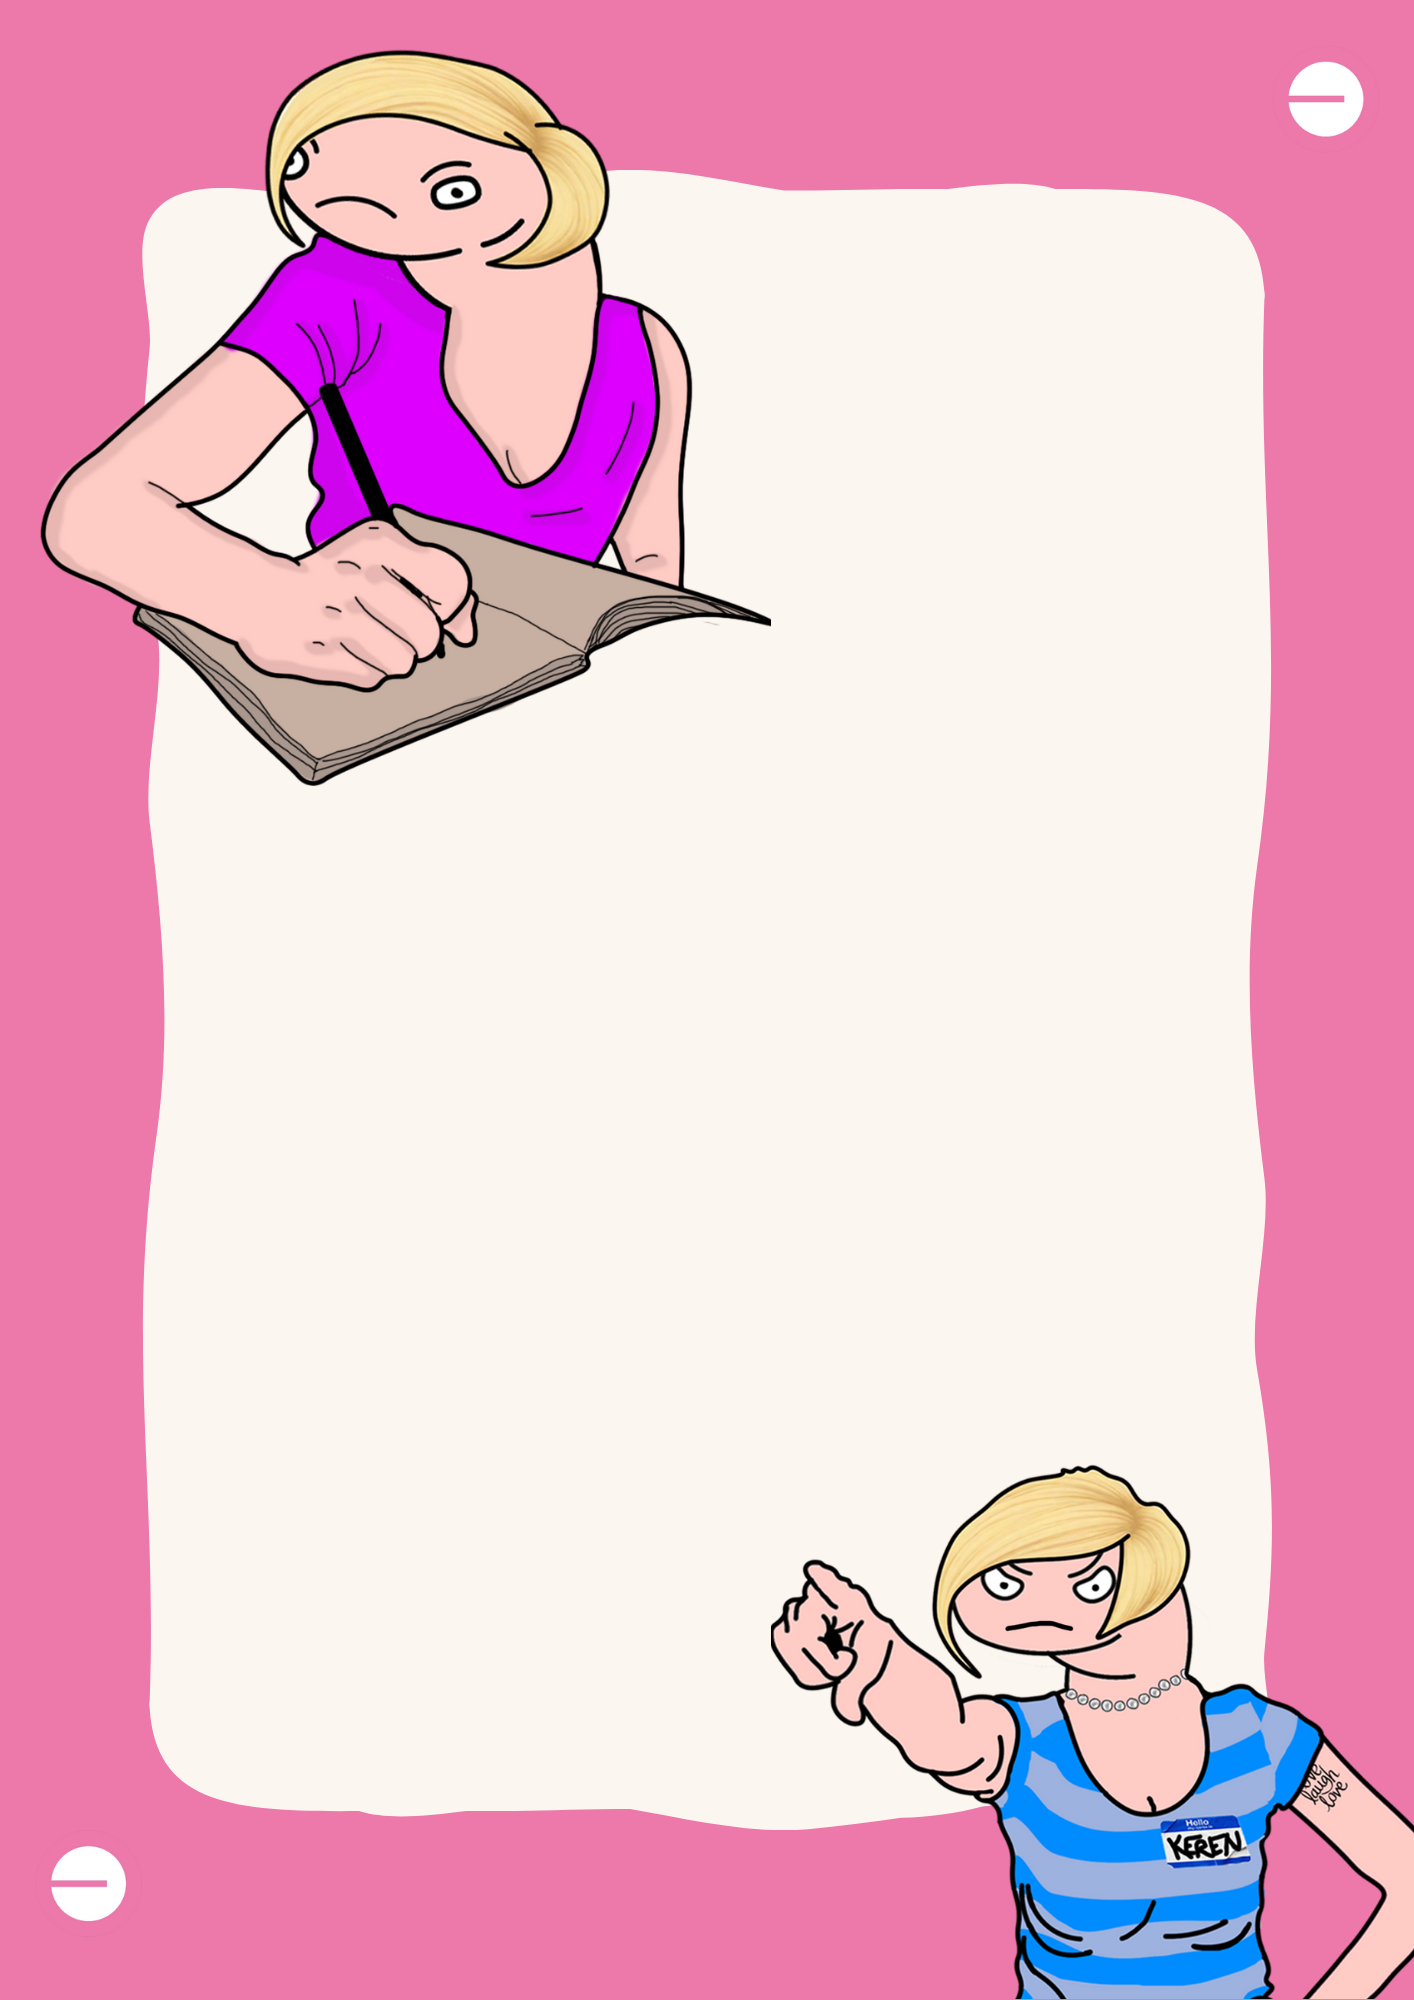
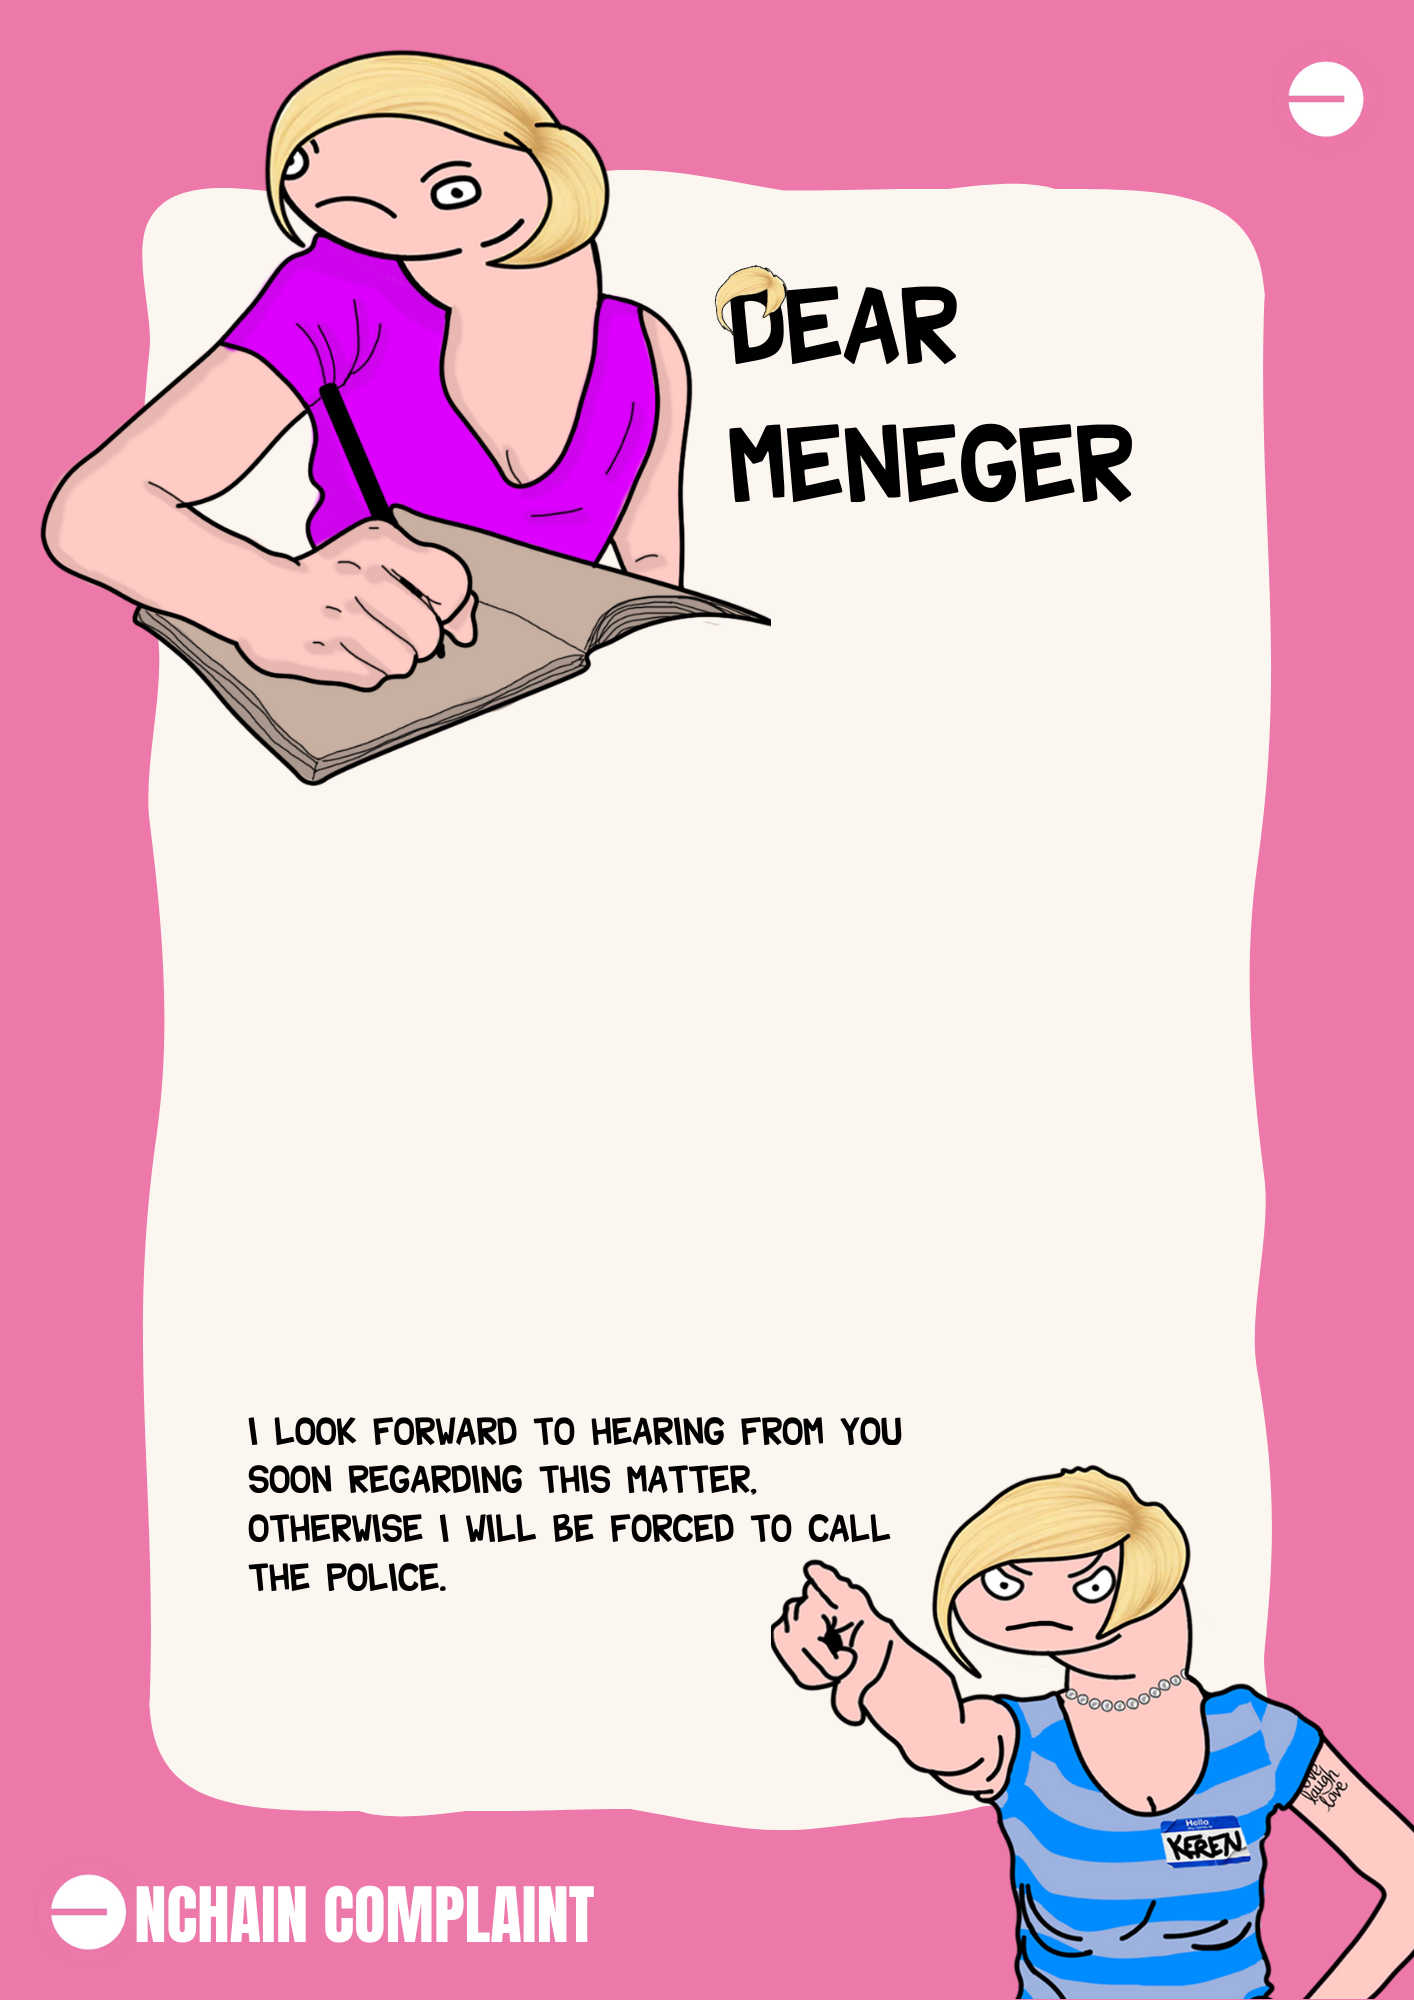
V1 image_gen

Changed region(s): [[0.1556, 0.682, 0.6223, 0.806], [0.4979, 0.124, 0.8091, 0.248], [0.0311, 0.899, 0.4356, 0.992]]

diff --git a/frontend/src/Components/ComplaintBox/ComplaintBox.jsx b/frontend/src/Components/ComplaintBox/ComplaintBox.jsx
@@ -1,4 +1,4 @@
-import React, { useState } from "react";
+import React, { useState, useRef } from "react";
 import styles from "./ComplaintBox.module.css";
 import {
   createWeb3Modal,
@@ -30,6 +30,70 @@ const ComplaintBox = () => {
   const { open } = useWeb3Modal();
   const { address, isConnected } = useWeb3ModalAccount();
   const { walletProvider } = useWeb3ModalProvider();
+  const canvasRef = useRef(null);
+
+  const generateComplaintImage = async (complaint, userAddress) => {
+    const canvas = canvasRef.current;
+    const ctx = canvas.getContext("2d");
+  
+    // Load background image
+    const backgroundImage = new Image();
+    backgroundImage.src = "/card.png";
+    await new Promise((resolve) => {
+      backgroundImage.onload = resolve;
+    });
+    ctx.drawImage(backgroundImage, 0, 0, canvas.width, canvas.height);
+  
+    // Set font properties
+    const fontSize = 40;
+    const fontFamily = "Arial";
+    ctx.font = `${fontSize}px ${fontFamily}`;
+    ctx.fillStyle = "black";
+  
+    // Set padding and line height
+    const padding = 50;
+    const lineHeight = fontSize * 1.2;
+  
+    // Add complaint text with wrapping
+    const complaintLines = wrapText(ctx, `Complaint: ${complaint}`, padding, 0, canvas.width - padding * 2, lineHeight);
+    complaintLines.forEach((line, index) => {
+      ctx.fillText(line, padding, 300 + index * lineHeight);
+    });
+  
+    // Add user address
+    ctx.font = "30px Arial";
+    ctx.fillStyle = "gray";
+    ctx.fillText(`User Address: ${userAddress}`, padding, 300 + complaintLines.length * lineHeight + 50);
+  
+    // Convert canvas to blob
+    const blob = await new Promise((resolve) => {
+      canvas.toBlob(resolve, "image/png");
+    });
+    return blob;
+  };
+  
+  // Helper function to wrap text
+  const wrapText = (ctx, text, x, y, maxWidth, lineHeight) => {
+    const words = text.split(" ");
+    let line = "";
+    const lines = [];
+  
+    for (let i = 0; i < words.length; i++) {
+      const testLine = line + words[i] + " ";
+      const metrics = ctx.measureText(testLine);
+      const testWidth = metrics.width;
+  
+      if (testWidth > maxWidth && i > 0) {
+        lines.push(line);
+        line = words[i] + " ";
+      } else {
+        line = testLine;
+      }
+    }
+    lines.push(line);
+  
+    return lines;
+  };
 
   const handleSubmit = async (e) => {
     e.preventDefault();
@@ -45,14 +109,13 @@ const ComplaintBox = () => {
       const totalSupplyNumber = Number(totalSupply);
       const tokenId = (totalSupplyNumber + 1).toString();
 
-
       // Generate a random string for the file names
       const randomString = generateRandomString();
 
-      // Pin the image to IPFS
-      const imageFile = await fetch("/card.png").then((res) => res.blob());
+      // Generate the complaint image with the user's complaint and address
+      const imageBlob = await generateComplaintImage(complaint, address);
       const imageFileName = `card-${randomString}.png`;
-      const imageHash = await pinFileToIPFS(imageFile, imageFileName);
+      const imageHash = await pinFileToIPFS(imageBlob, imageFileName);
 
       // Create the metadata object with the correct IPFS gateway URL and token ID
       const metadata = {
@@ -147,6 +210,7 @@ const ComplaintBox = () => {
             required
           />
         </div>
+        <canvas ref={canvasRef} width="1414" height="2000" style={{ display: "none" }} />
         {isConnected ? (
           <button type="submit" className={styles.button}>
             Send Complaint
